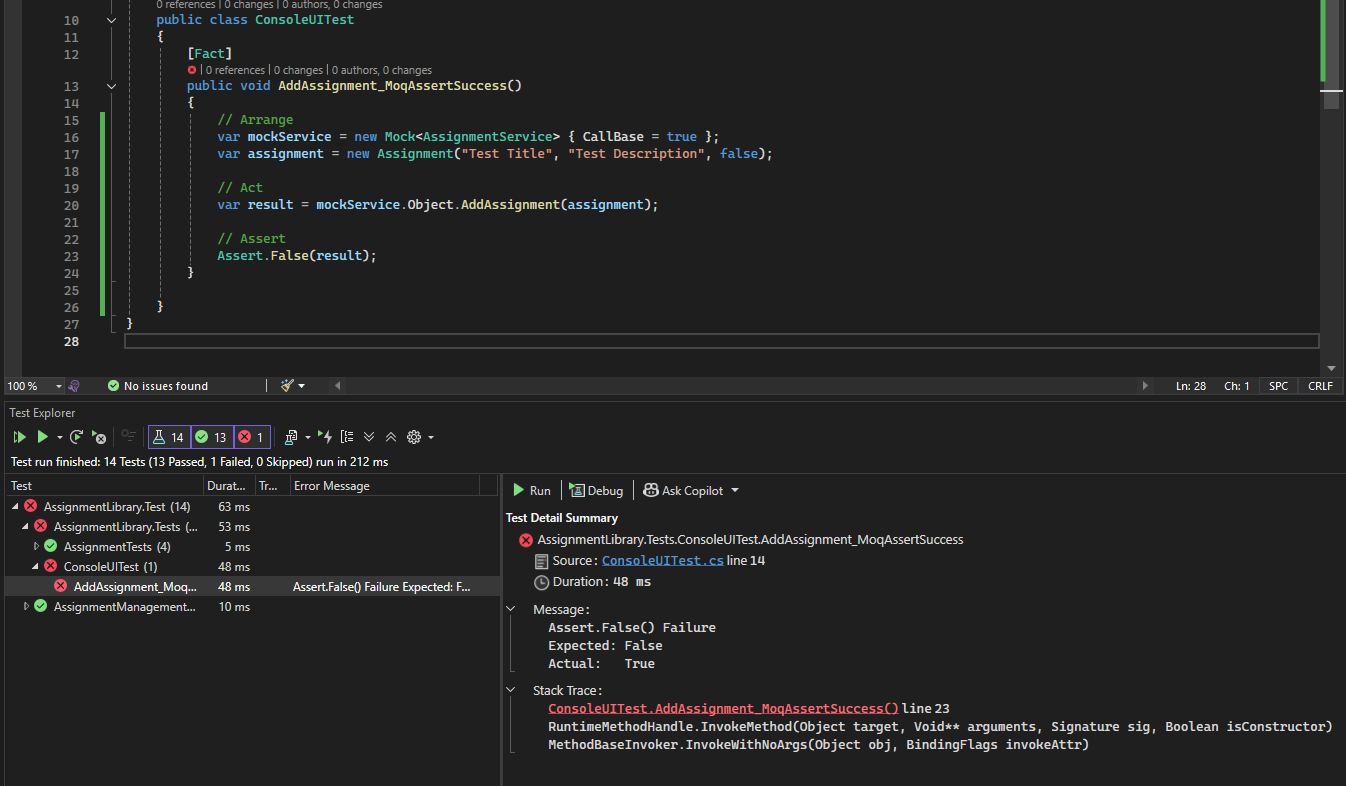
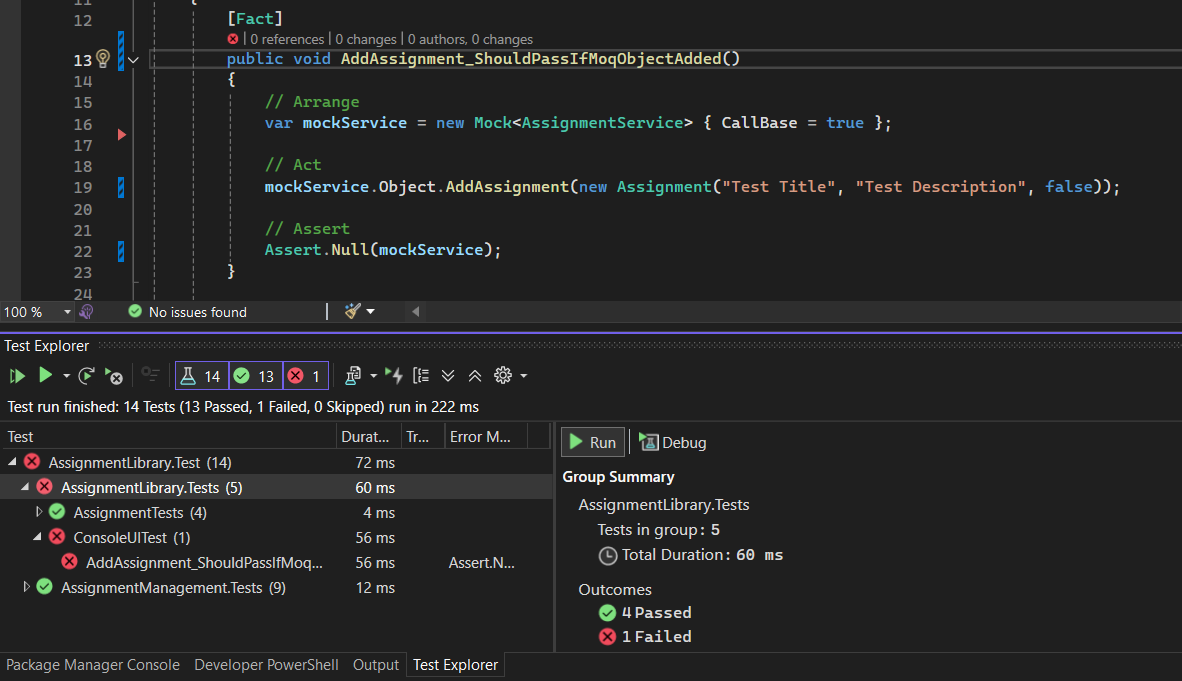
Implement ShouldPassIfMoqObjectAdded +Added Test +Added Screenshots

diff --git a/AssignmentLibrary.Test/ConsoleUITest.cs b/AssignmentLibrary.Test/ConsoleUITest.cs
@@ -10,17 +10,16 @@ namespace AssignmentLibrary.Tests
     public class ConsoleUITest
     {
         [Fact]
-        public void AddAssignment_MoqAssertSuccess()
+        public void AddAssignment_ShouldPassIfMoqObjectAdded()
         {
             // Arrange
             var mockService = new Mock<AssignmentService> { CallBase = true };
-            var assignment = new Assignment("Test Title", "Test Description", false);
 
             // Act
-            var result = mockService.Object.AddAssignment(assignment);
+            mockService.Object.AddAssignment(new Assignment("Test Title", "Test Description", false));
 
             // Assert
-            Assert.True(result);
+            Assert.NotNull(mockService);
         }
 
     }
